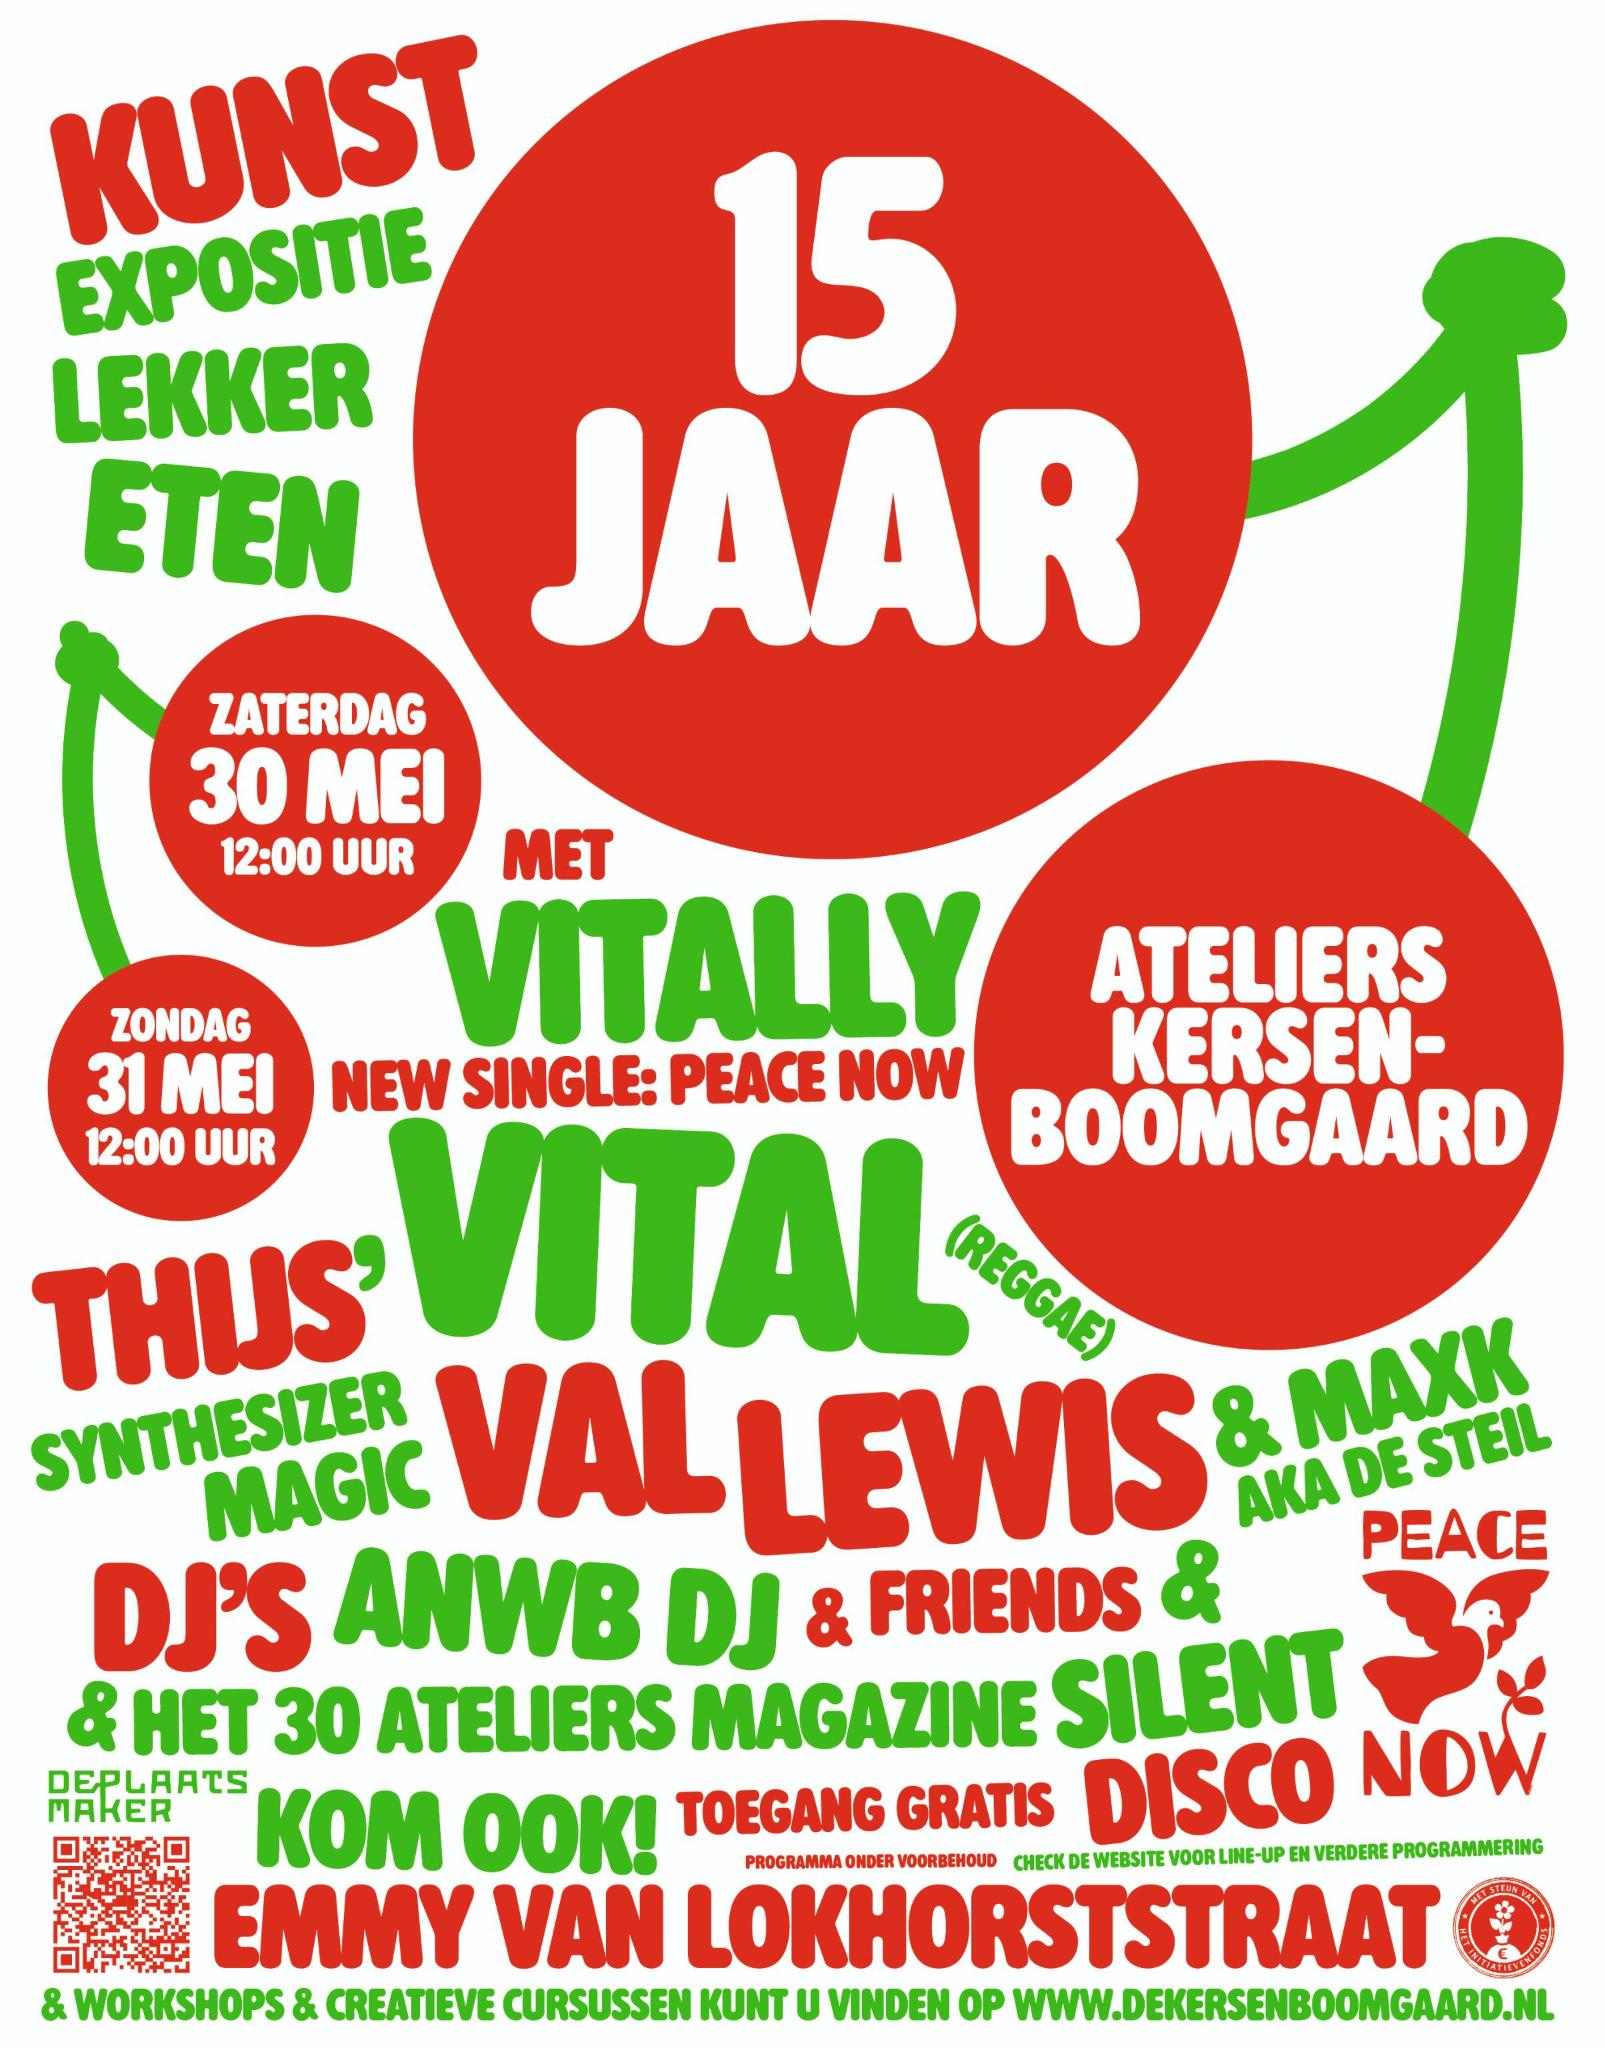
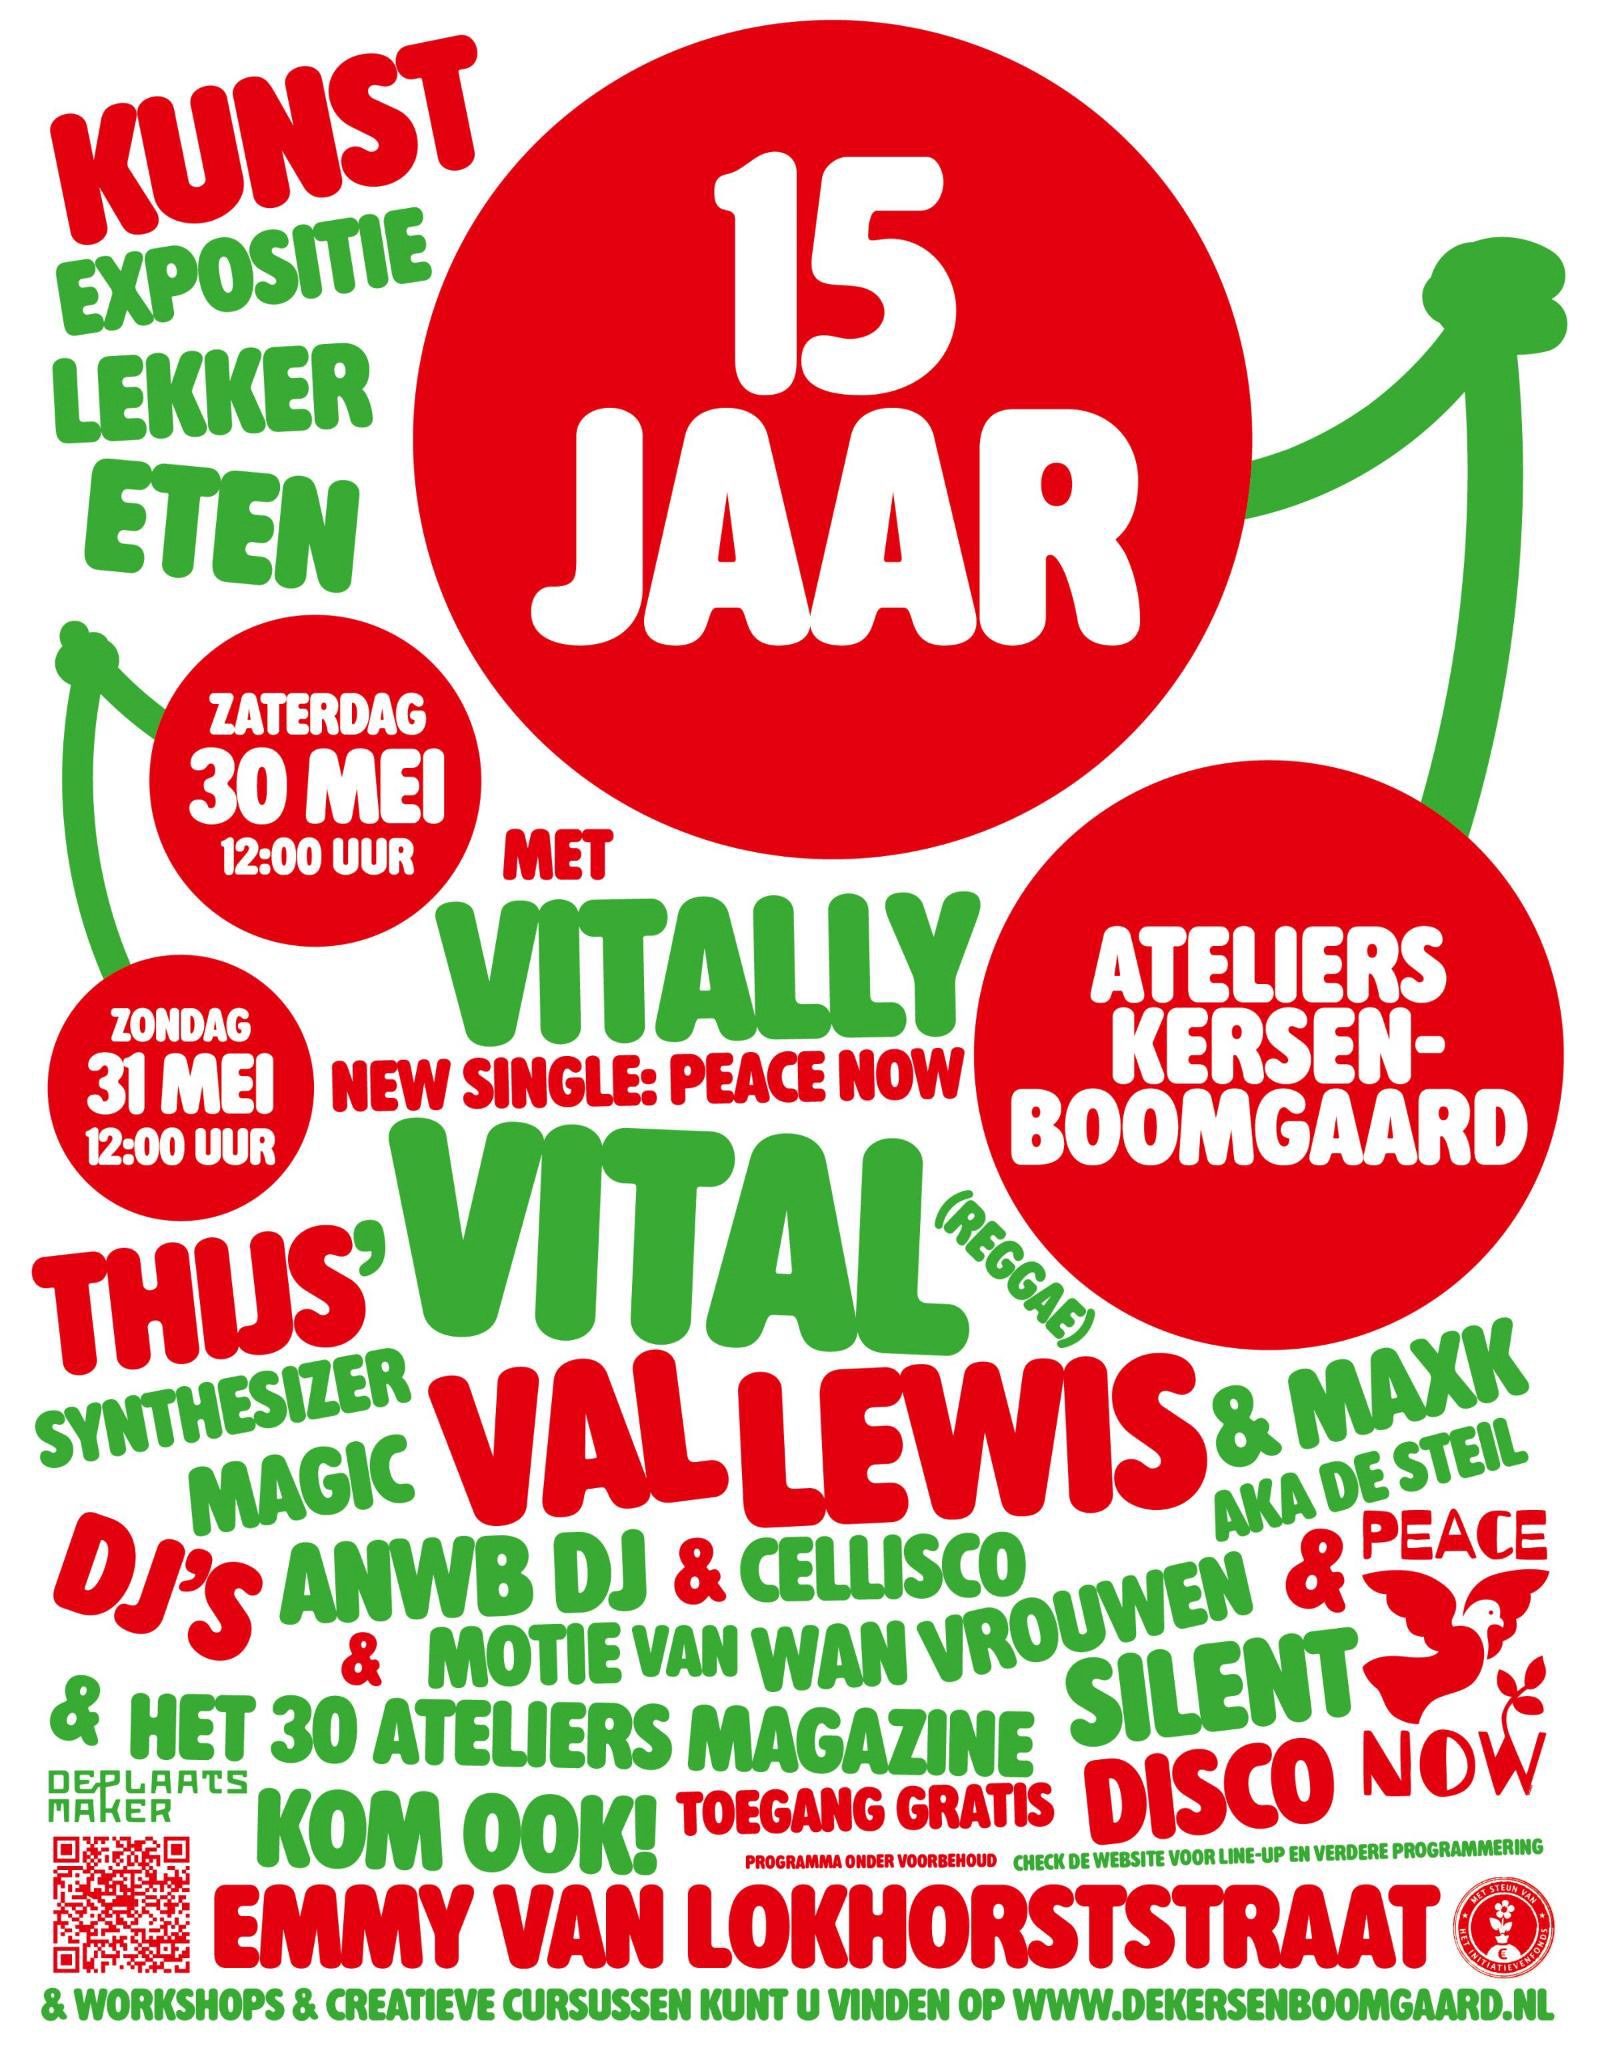
Content and course list updates (#11)
* Content and course list updates

- Add workshop images for The Outsiders
- Add disabled flag to courses schema and filter disabled courses
- Disable Margot & Bert's workshop (away for a year)
- Add house numbers to course cards (matching artist overview style)
- Align "Meer info" link to bottom-right of each course section
- Update flyer image for 15-jaar expo
- Capitalize "Over Ons" and "Docent"/"Docenten"

* Add photo caption on Over Ons page

diff --git a/src/utils/content.ts b/src/utils/content.ts
@@ -139,7 +139,8 @@ export async function getArtists(): Promise<Artist[]> {
 }
 
 export async function getCourses(artists: Artist[]): Promise<Course[]> {
-  const entries = await getCollection("courses");
+  const allEntries = await getCollection("courses");
+  const entries = allEntries.filter((entry) => !entry.data.disabled);
   const artistsMap = new Map(artists.map((artist) => [artist.id, artist]));
 
   const courses = await Promise.all(

diff --git a/src/content.config.ts b/src/content.config.ts
@@ -19,6 +19,7 @@ const courses = defineCollection({
     artist_ids: z.string().default(""),
     name: z.string(),
     link: z.string().default(""),
+    disabled: z.boolean().default(false),
     start_month: z.number().optional(),
     end_month: z.number().optional(),
   }),

diff --git a/content/courses/38-the-outsiders.md b/content/courses/38-the-outsiders.md
@@ -4,4 +4,4 @@ name: Op Voedsel Avontuur
 link: https://drive.google.com/file/d/14eX0nGnV-O-90W2iag6MIIoWrrS_o4Jw/view?usp=sharing
 ---
 
-Voor kinderen tussen 6 en 12
+Creatieve kinderworkshops (kunst & koken). Voor kinderen tussen 6 en 12

diff --git a/content/courses/34-margot-westermann-bert-de-groot.md b/content/courses/34-margot-westermann-bert-de-groot.md
@@ -2,4 +2,5 @@
 artist_ids: margot-westermann,bert-de-groot
 name: Illustratie & Druktechnieken
 link: https://www.instagram.com/maak.aap
+disabled: true
 ---
